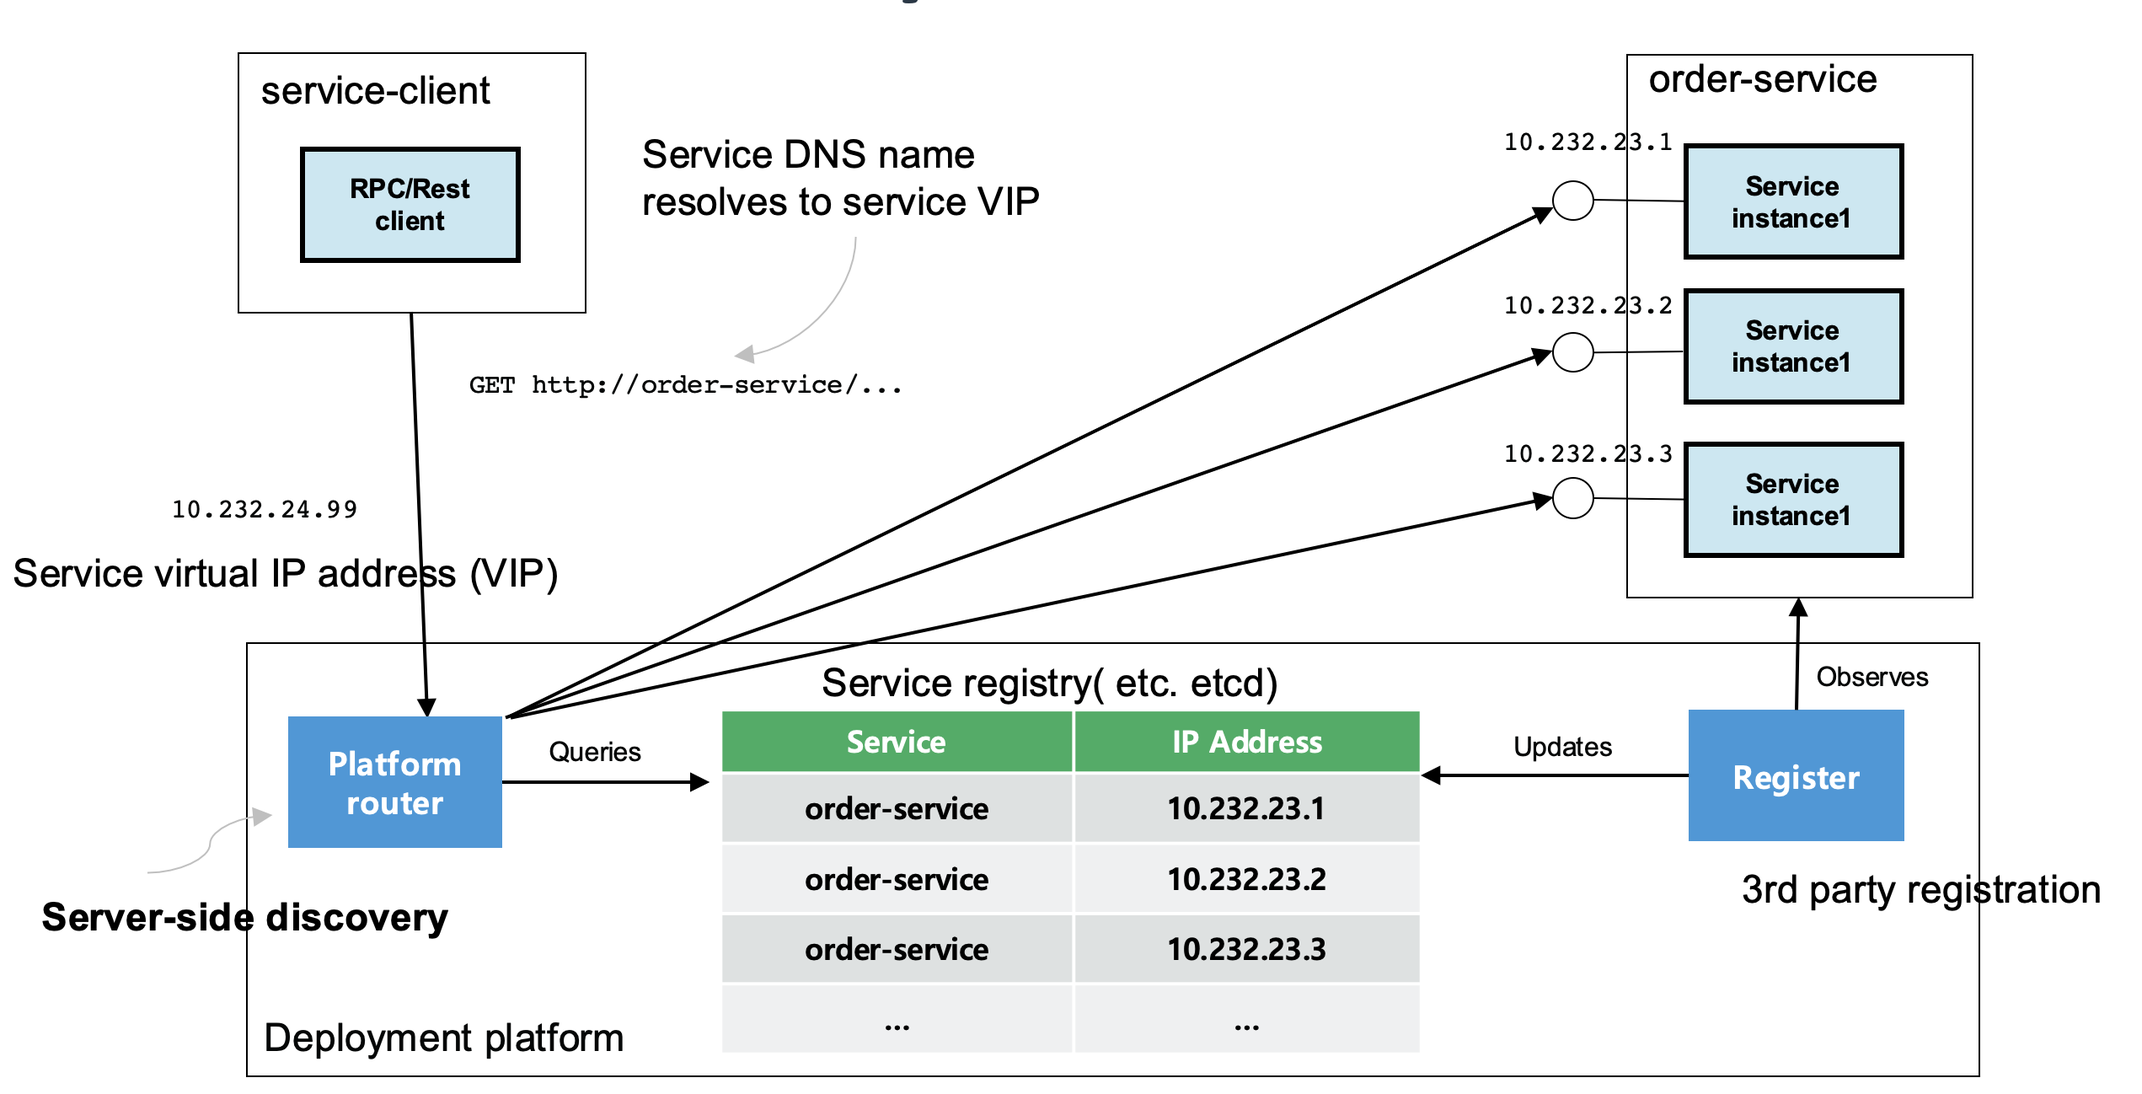
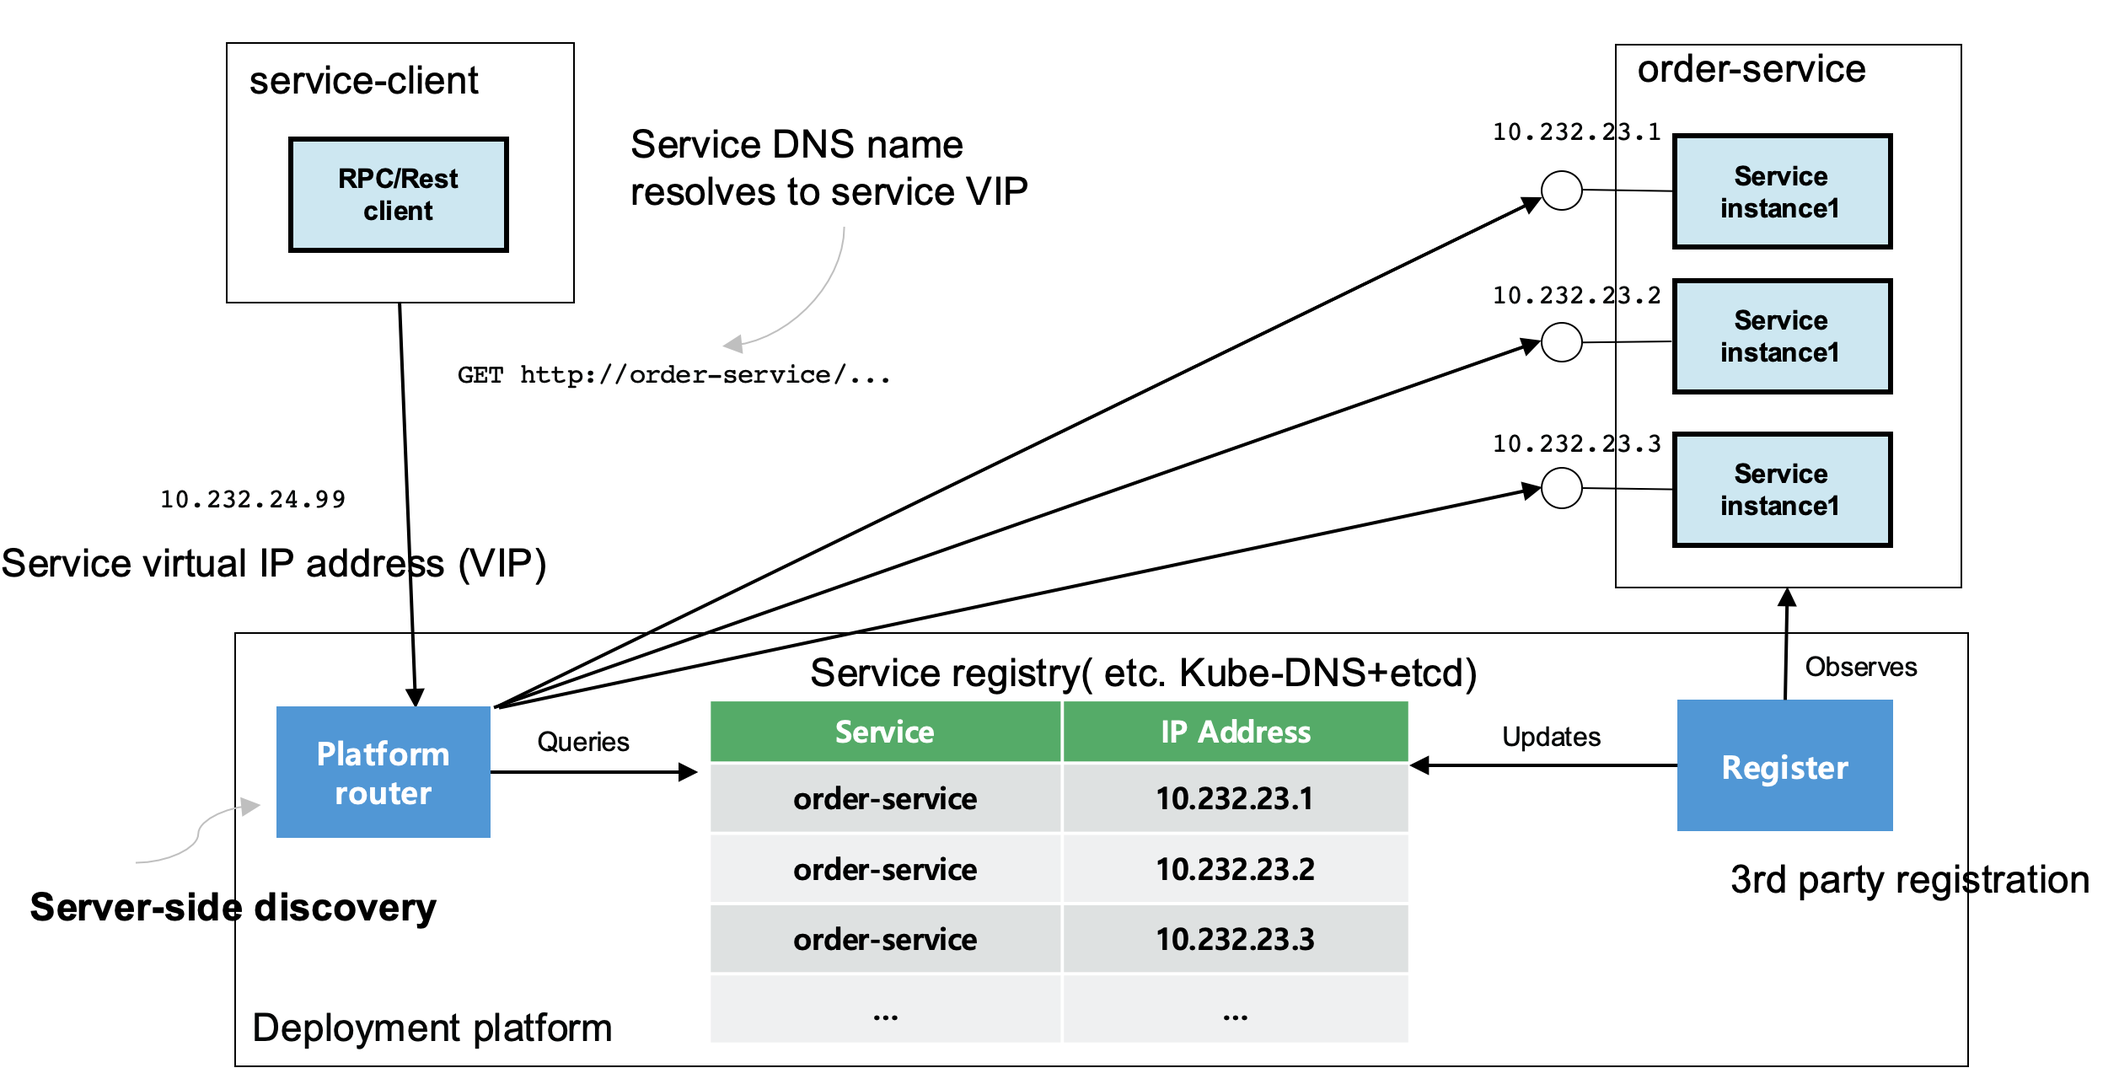
보안 부분 작성중

diff --git a/public/contents/03_설계--구현--운영단계/04_구현/06_Service Discovery.md b/public/contents/03_설계--구현--운영단계/04_구현/06_Service Discovery.md
@@ -1,39 +1,104 @@
 ## Service Discovery
 
-분산 환경 위에서 서로간의 서비스를 원격 호출하기 위해서는 각 서비스의 IP 주소와 PORT 를 알아야 호출이 가능하다.
-요즘처럼 클라우드 기반의 MSA 어플리케이션인 경우에 네트워크 주소가 동적(dynamic)으로 할당된다.
-따라서 클라이언트가 서비스를 호출하기위해서 서비스를 찾는 매커니즘(service discovery mechanism)이 필요하다.
-Service registry 는 Service discovery 를 하기 위하여 중요한 역할을 한다. 
-Service registry 는 사용가능한 서비스 인스턴스의 목록을 관리하고, 서비스 등록/해제/조회 등을 할 수 있는 API를 제공한다. 
-Service discovery 를 하는 위치에 따라서 구현 방식이 달라지기에 client side 와 server side 로 분리한다.
+분산 환경 위에서 서로간의 서비스를 원격 호출하기 위해서는 각 서비스의 IP 주소와 PORT 를 알아야 호출이 가능하다. 요즘처럼 클라우드 기반의 MSA 어플리케이션인 경우에 네트워크 주소가 동적(dynamic)으로 할당된다. 따라서 클라이언트가 서비스를 호출하기위해서 서비스를 찾는 매커니즘(service discovery mechanism)이 필요하다.
 
-## client side discovery , loadbalancing
+* Service registry 는 Service discovery 를 하기 위하여 중요한 역할을 한다. 
+* Service registry 는 사용가능한 서비스 인스턴스의 목록을 관리하고, 서비스 등록/해제/조회 등을 할 수 있는 API를 제공한다. 
+* Service discovery 를 하는 위치에 따라서 구현 방식이 달라지기에 Client-Side 와 Server-Side 로 분리한다.
 
-![](/img/03_Bizdevops/04/06/03_04_06_01.png)
+Service discovery 기능은 기본적으로 서비스를 등록하고 등록된 서비스의 목록을 리턴하는 기능이지만 Health check 를 통해서 현재 서비스가 가능한 서비스를 판별한 후, 서비스가 가능한 서비스 목록만 보여 준다던가, 서비스간의 부하 분산 비율을 조정하는 등의 확장이 가능하다.  
+
+
+## Client-Side discovery , loadbalancing
+
+![client side discovery](/img/03_Bizdevops/04/06/03_04_06_01.png)
 
 * 서비스 인스턴스의 네트워크 위치를 찾고 로드밸런싱하는 역할을 클라이언트가 담당하는 방식
 * Netflix Eureka : Service registry
 * Netflix Ribbon : Eureka 와 함께 동작하여 로드밸런싱된 요청(requests)을 생성
 
-client side discovery 방식은 client 가 Service registry 에 물어서 서비스 위치를 찾은 후에 호출을 하는 방식이다. 
+**Client-Side discovery 방식**은 client 가 Service registry 에 물어서 서비스 위치를 찾은 후에 로드밸런싱 알고리즘을 통해 호출을 하는 방식이다. 서비스가 구동될적에 Service registry 에 자신의 위치 ( ip,prot, 서비스명 등 ) 를 알리고, 종료시에  Service registry 에서 삭제를 한다.  
 
-서비스에 맞는 로드밸런싱 방식을 각자 구현할 수 있다는 점이 장점이다.  
-하지만 각 서비스마다 서비스 레지스트리를 구현해야 하는 종속성이 생긴다. 만약 서비스마다 다른 언어를 사용하고 있다면 언어별 또는 프레임워크별로 구현
+위 그림은 order-service 가 기동할때 각자 구현된 discovery library 에서 Service registry 가 제공하는 Registration API 를 호출하여 서비스를 등록한다. 이제 다른 서비스에서 order-service 를 호출하가 위해서는 Service registry 에 Query API 를 호출하여 타겟의 ip 와 port 등을 알아 낸 후 서비스를 호출한다. 호출시에는 discovery library 에서 로드밸런싱 방법을 선택하여 호출을 한다.  
 
-## server side discovery , loadbalancing
+대표적인 discovery library 는 Netflix 오픈소스인 Eureka,Ribbon 등이 있다. Eureka 는 Service registry 의 서버 역할을 하며 API 를 제공하여 주고, 클라이언트 라이브러리로 활용을 할적엔 API 를 호출하는 역할을 한다. Ribbon 은 Eureka 와 같이 쓰이면서 호출시 로드벨런싱 역할을 해준다. 
 
-![](/img/03_Bizdevops/04/06/03_04_06_02.png)
+- Client-Side Discovery Pattern 장점
+    - 비교적 간단하다. 
+    - 호출하려는 서비스를 알고 있기 때문에 서비스에 맞는 로드밸런싱 방식을 각자 구현할 수 있다.
+
+- Client-Side Discovery Pattern 단점
+    - 각 서비스마다 서비스 레지스트리를 구현해야 하는 종속성이 생긴다. 
+    - 만약 서비스마다 다른 언어를 사용하고 있다면 언어별 또는 프레임워크별로 구현해야 한다.
+
+## Server-Side discovery , loadbalancing
+
+![server side discovery](/img/03_Bizdevops/04/06/03_04_06_02.png)
 
 * 서버 쪽에서 디스커버리 로직을 구현한 방식
 * aws ELB, 구글 로드 밸런서 : Service discovery
-* etcd  : Service registry
-* kubernetes DNS 서비스, kubernetes proxy : Service loadbalancer
+* kube-dns + etcd : Service registry
+* kubernetes proxy : Service loadbalancer
 
-서버 사이드 서비스 디스커버리 방식은 디스커버리 로직을 클라이언트에서 분리할 수 있다. 따라서 클라이언트 쪽에선 이런 로직을 몰라도 되고 따로 구현할 필요도 없다. 그리고 위에서 언급한 몇몇 배포 환경에서는 이런 로직을 무료로 제공하고 있습니다. 반면에 이 서비스 디스커버리가 죽으면 전체 시스템이 동작하지 않기 때문에 고가용성 등 더 많은 관리가 필요합니다
+**Server-Side discovery 방식**은 client 가 플렛폼 라우터로 서비스를 호출하여 달라고 요청을 보내는 방식이다. 여기서 플렛폼 라우터는 aws ELB, 구글 로드 밸런서가 대표적이다. 이 플렛폼 라우터는 서비스 레지스트리에 문의(query)를 하여 서비스의 위치를 찾은 후에 이를 기반으로 라우팅을 한다. Client-Side discovery 와 동일하게 각 서비스는 Service registry 에 등록되고 해제된다
+
+위 그림의 Deployment platform 은 Kubernetes 배포 환경으로 생각 하면된다. 만약 Kubernetes 와 aws ELB 를 사용한다면 클라이언트는 DNS 이름을 사용하여 ELB 에 요청을 보낸다. ELB 에서는 Kube-DNS 서비스에게 DNS 이름으로 문의(query)를 요청하면 Kube-DNS 는 쿠버네티스의 저장소인 etcd 를 조회하여 호출하려는 서비스의 ip와 port 정보를 넘겨준다. 즉 Service registry 역할을 Kube-DNS (API 제공) 와 etcd (목록 관리) 가 나누어서 한다. 넘겨받은 정보를 ELB 에서 호출을 할때 Kube-proxy 가 loadbalancer 역할을 하여 준다.  
+
+- Server-Side Discovery Pattern 장점
+    - 디스커버리 로직을 클라이언트에서 분리할 수 있다.
+    - 따라서 클라이언트 쪽에선 이런 로직을 몰라도 되고 따로 구현할 필요도 없다.
+    - 쿠버네티스 서비스 제공자(EKS, AKS, GKS 등) 에서는 이와 같은 기능을 무료로 재공 하고 있다. 
+
+- Server-Side Discovery Pattern 단점
+    - 로드벨런서는 배포 환경에 구축이 되어야 한다.
+    - public cloud 에서 (예: aws, gcp) 로드 벨런서를 생성하면 각 환경에 맞는 로드벨런서 (aws ELB, 구글 로드 밸런서) 등이 자동 생성되지만, private cloud 에서는 로드벨런서를 직접 생성해 주어야 한다. (예: MetalLB 등)
+    - 서비스 디스커버리가 죽으면 전체 시스템이 동작하지 않기 때문에 고가용성 등 더 많은 관리가 필요하다.
+
+## registration 방식 
+
+서비스들은 Service Registry 에 각 서비스를 등록/해제 해야한다. 이렇게 서비스를 등록하는 방식은 두가지 방식이 있다.   
+
+**1. Self-Registration**  
+
+서비스 인스턴스는 service registry에 스스로 등록/해제할 책임이 있다.  
+필요하다면 등록정보가 만료되지 않게 하기위해 heartbeat를 service registry에 보내야한다.  
+**Netflix OSS Eureka client** 가 대표적인 예 이다.  
+
+Eureka client는 Eureka(service registry)에 서비스 등록/해제를 자동으로 처리한다.  
+서비스의 Java Configuration 클래스에 @EnableEurekaClient 어노테이션만 달아주면 된다.  
+    
+    
+* Self-Registration 장점  
+    - 비교적 단순하다.
+    - 별도의 시스템 컴포넌트가 추가될 필요가 없다.
+    
+* Self-Registration 단점
+    - 서비스 인스턴스와 Service Registry간의 높은 결합도(coupling)이 생긴다.
+    - 서비스에서 등록/해제 관련된 코드를 구현해야된다.
 
 
 
+**2. 3rd party registration**
+
+서비스 인스턴스가 직접 service registry에 등록/해제에 대한 책임이 없다.  
+대신, 서비스 등록기(service registrar)가 service registry에 등록을 해준다.  
+서비스 등록기는 실행중인 서비스 인스턴스들에 polling을 하거나 이벤트를 구독하는 등의 작업을 통해서 서비스의 변경을 감지하고, service registry에 등록/해제를 한다.  
+[**Netflix Prana**](https://github.com/Netflix/Prana) 나 [**Registrator**](https://github.com/gliderlabs/registrator) 등이 이에 해당한다.  
+쿠버네티스에서는 명식적인 Service registry 가 없어서 infrastructure 의 built-in registry 를 이용한다.  
+
+> Netflix Prana : Non-JVM 시스템을 side-car 방식으로 같이 실행을 하여 Eureka 에 등록/해제 를 하여준다. 
+> Registrator: Docker containers 를 다양한 (etcd, Consul) Service registry 에 등록/해제 하여 준다.  
+
+* Third-Party Registration 장점
+    - 서비스 인스턴스와 service registry가의 결합도를 끊을(decoupled) 수 있다.
+    - 서비스에 별도의 등록/해제 로직을 구현할 필요가 없다.
+* Third-Party Registration 단점
+    - 운영환경에 추가적인 시스템 컴포넌트가 필요하다.
+    - 이 시스템은 설치 및 관리되어야 하고, 고가용성을 유지해야 한다.
 		
-		
+> 참고 : 
+> https://www.nginx.com/blog/service-discovery-in-a-microservices-architecture/
+> https://kihoonkim.github.io/2017/01/27/Microservices%20Architecture/Chris Richardson-NGINX Blog Summary/4. Service Discovery in a MSA/
+> https://microservices.io/patterns/3rd-party-registration.html
 
 

diff --git a/public/contents/03_설계--구현--운영단계/04_구현/05_Monolith 에서 Mi-Svc 전환.md b/public/contents/03_설계--구현--운영단계/04_구현/05_Monolith 에서 Mi-Svc 전환.md
@@ -164,7 +164,8 @@ public interface DeliveryService {
 
 통합 인증은 "어떻게하면 흩어져 있는 Application 들의 인증 관리를 중앙에서 쉽게 할 것인가” 하는 것인데, 이것을 푸는 방식 중 대표적인 것이 바로 OAuth2 이다. OAuth2 는 웹, 모바일 어플리케이션에서 타사의 API 권한 획득을 위한 프로토콜이다. Google, Facebook 등을 비롯한 대부분의 인터넷 기반 Application들이 OAuth2 또는 그 변종을 사용하여 스스로를 인증하거나 누군가에게 인증 서비스를 제공하고 있다. 또, 근래에는 OpenID Connect라는(예전의 URL 기반 OpenID와는 다르다) 것이 등장하여 OAuth의 개념을 보다 편리하게 쓸 수 있도록 한 기술도 등장한 상태이다.  
 
-기존의 모노리스 시스템에서는 서버측에 유저 정보를 저장하는 서버기반 인증을 많이 사용하였다. 서버기반 인증의 문제점은 사용자가 늘어났을때 메모리 사용량이 늘어난다. 또 마이크로 서비스에서 서버에서 인증을 처리하게 되면, 각 서비스마다 인증로직을 구현해야 한다. 이러한 방식을 해결하기 위하여 토큰 기반 인증 방식을 사용한다.  
+기존의 모노리스 시스템에서는 서버측에 유저 정보를 저장하는 서버기반 인증을 많이 사용하였다. 서버기반 인증의 문제점은 사용자가 늘어났을때 메모리 사용량이 늘어나고 정보를 저장하는 별도의 서드파티가 필요하여진다. 클라우드 환경에서 적용하기 위하여 세션 클러스터링 방식이 필요해 지고, 각 서비스마다 인증로직을 구현해야 한다. 이러한 방식을 해결하기 위하여 토큰 기반 인증 방식을 사용한다.  
+
 토큰 기반 인증 방식은 인증 서버에 토큰을 요청 하여 토큰이 발행되면 해당 토큰을 Client 에서 저장을 하고 서버에 요청을 할때마다 토큰을 함께 서버에 전달을 한다. 그리고 서버는 요청이 올때마다 토큰을 검증하는 방식이다.  
 Token 은 무의미한 문자열로, 기본적으로 정해진 규칙에 의해 발급된 것이 아니다. 그래서 증명확인이 필요할 때마다, 인증서버에 DBMS 접근이든 또다른 API를 활용하든 접근하여 유효성을 확인해야 한다. 이 Token 을 좀더 손쉽게 사용하기 위하여 나온 방식이 JWT (JSON Web Token) 이다. 매번 토큰의 유효성을 확인하는 과정을 건너뛰고 토큰 안에 위조여부 확인을 위한 값, 유효성 검증을 위한 값, 심지어는 인증정보 자체를 담아서 제공함으로써, Token 확인 단계를 인증서버에게 묻지 않고도 할 수 있도록 만든 것이다.
 
@@ -175,7 +176,13 @@ Token 은 무의미한 문자열로, 기본적으로 정해진 규칙에 의해 
   
 단점은 토큰을 Client 에 저장을 하기 때문에, 토큰을 탈취 당한다면 토큰의 유효시간 안에 인증이 유효하게 되어진다. 이를 해결하기 위하여 토큰의 유효시간을 조금 가져가고, refresh token 으로 토큰을 새로 요청하는 등의 방식을 사용한다.
 
-[implementation-인증/인가](./07_인증--인가) page 에서 Oauth2.0 과 JWT 를 사용하는 방식에 대하여 자세히 설명한다.  
+결론적으로 마이크로 서비스 아키텍처 에서는 Oauth2 방식으로 사용하려는 api 를 인증하고 인증시 토큰을 사용한다. 인증 결과인 Token 을 client 에서 가지고 있다가, api 를 요청시 header 에 같이 실어 보내어 인가 처리를 하는데, 이때 인가 처리를 gateway 에서 처리를 하는 방식을 추천 한다.  
+
+관련 소스는 다음을 참고하면 된다.  
+[인증서버 소스코드]: https://github.com/event-storming/oauth  
+[인가 Gateway]: https://github.com/event-storming/gateway  
+
+[구현-마이크로 서비스 보안](./07_마이크로%20서비스%20보안) page 에서 Oauth2.0 과 JWT 를 사용하는 방식에 대하여 자세히 설명한다.  
  
   
 

diff --git a/public/contents/03_설계--구현--운영단계/04_구현/07_마이크로 서비스 보안.md b/public/contents/03_설계--구현--운영단계/04_구현/07_마이크로 서비스 보안.md
@@ -1,0 +1,58 @@
+## 마이크로 서비스 보안
+
+모노리스 시스템에서 인증, 권한 부여 및 기타 다양한 중요 보안 조치를 다루는 중앙 집중식 보안 모듈을 사용하는 경우가 많았다. 그러나 마이크로 서비스에서 중앙 집중화는 분산 배포의 이점을 떨어뜨리고, 효율성을 감소시킨다. 
+결국 중앙 집중식 세션 관리보다 확장 가능한 방법이 요구 되어지는데, 모든 마이크로 서비스에서 보안 모듈을 심기 보다는 단일 진입점을 제공하는  API 게이트웨이에서 처리하는 것이 효율적이다. 이 API 게이트웨이에서 사용자 체크와 서비스에 접근 할 수 있는 권한 부여 및 인증을 처리하게 된다.  
+
+##### 이번 장에서는 인증/인가의 정확한 개념과 Rest API 를 인증 하는 방법을 나열하고, 그중 Rest API 인증의 의 표준 격인 Oauth 2.0 에 대하여 설명을 한다. 
+
+## 인증/인가
+
+인증(Authentication) 과 인가(Authorization)란?
+
+1. 인증(Authentication)
+    - 사용자인지 아닌지를 확인. 주로 아이디/패스워드 인증이 많이 사용되나 생체인식 등의 인증도 사용.
+    - 서비스를 호출하는 서비스 클라이언트가 자신이라는 것을 어떻게 알 수 있을까?
+    - who you are
+    - 사원증 발급
+2. 인가(Authorization)
+    - 사용자가 권한이 있는지 없는지 확인하여 해당 행위를 제한하거나 가능하게 하게 함.
+    - 마이크로서비스를 호출하는 서비스 클라이언트가 수행하려는 작업을 수행할 자격이 있는지 어떻게 알 수 있을까?
+    - what you can do
+    - 사원증 찍고 게이트 통과
+
+## Rest API 인증 방법 
+
+1. HTTP Basic Authentication
+
+- 사용자 이름과 암호 Base 64 인코딩을 하여 서버로 전송.
+- 요청 할 때 마다 사용자 이름과 암호를 전송해야 한다.
+- 중간자 공격(Man-in-the-middle attack)에 취약하다.
+
+2. Cookies and Session
+
+- 세션은 키를 사용자 아이디에 매핑한다.
+- 세션이 존재하는 경우 키가 유효한 것으로 판단합니다.
+- 매 요청마다 쿠키에서 키를 보내 인증을 하여 세션이 유효한지 판단한다.
+- REST API 의 기본 원칙인 Stateless에 위배 된다.
+
+3. API Keys
+
+- 로그인 후 API키를 받아서 전달받아서 매 요청시마다 API키를 전달하는 방법.
+- API키가 유출될시 보안문제가 생길 수 있다.
+- 주기적으로 키를 업데이트 하더라도, 서버와 클라이언트가 잘 맞지 않으면 서비스 장애로 이어진다.
+- Cloud 의 상징인 Auto Scaling 등으로 서버의 수가 변하고 IP가 유동적이라면 사실 상 관리가 되지 않는다. 
+
+4. OAuth 2.0 (Token in HTTP Header)
+
+- API Key의 단점을 보완하여 요청하는 서버와 요청받는 서버 정도로 단순한 구성이 아닌, 요청하는 서버, 요청받는 서버, 그리고 인증하는 서버 등으로 조금 세분화가 이루어진다. (중립적인 위치에서 인증을 전담하는 구조)
+- OAuth 1.0 보다 인증 절차를 간소화 하고 다양한 인증 방식을 지원 한다.
+- OAuth 1.0 은 디지털 서명 기반이었지만 OAuth2.0의 암호화는 https에 맡김으로써 복잡한 디지털 서명에관한 로직을 요구하지 않기때문에 구현 자체가 개발자입장에서 쉬워짐
+
+## Oauth 2.0 
+
+![flow](/img/03_Bizdevops/04/07/oauth2flow.png)
+
+![Authorization_Code](/img/03_Bizdevops/04/07/Authorization_Code_Grant_Type.png)
+![Implicit](/img/03_Bizdevops/04/07/Implicit_Grant_Type.png)
+![Password](/img/03_Bizdevops/04/07/Password_Grant_Type.png)
+![Client_Credential](/img/03_Bizdevops/04/07/Client_Credential_Grant_Type.png)
